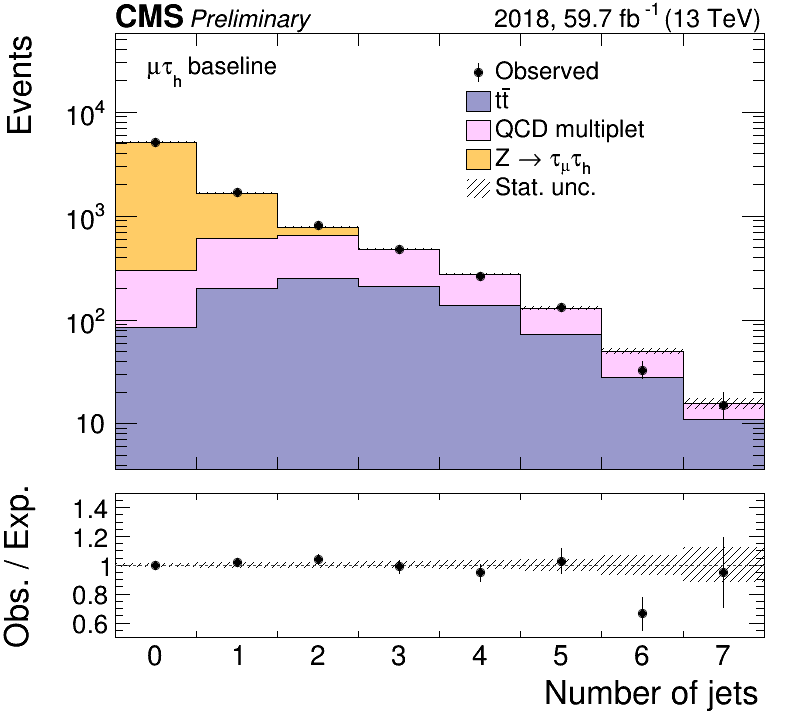
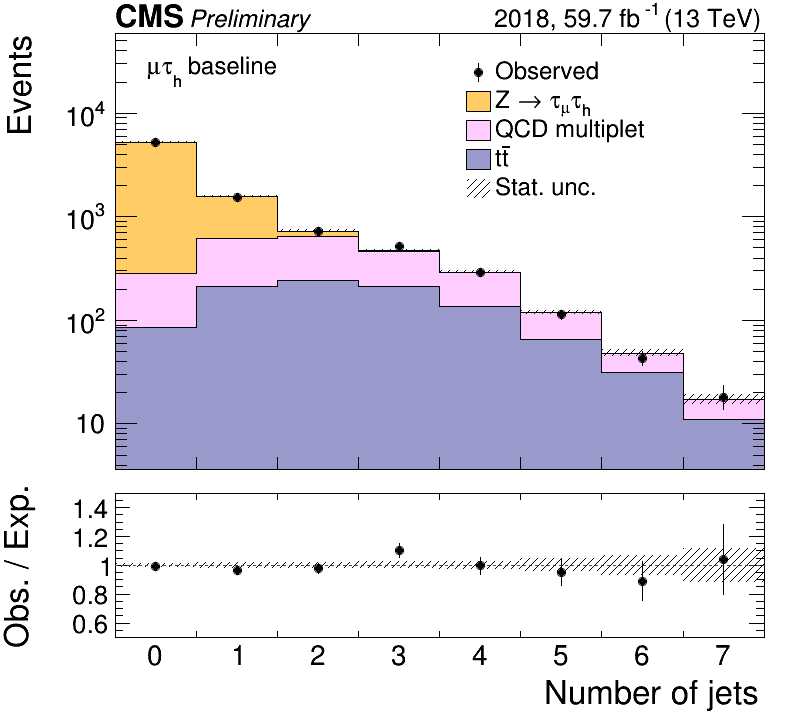
fix order of stacks

diff --git a/Plotter/test/plotStacks.py b/Plotter/test/plotStacks.py
@@ -107,19 +107,19 @@ def main():
   mvisbins = [0,30,40,50,55,60,65,70,75,80,85,90,95,100,110,120,140,200,300]
   plotset  = [ # make "pseudo"-MC with random generators, and "pseudo" data
     (('m_vis',"m_{vis} [GeV]",40,0,200), [
-      ('TT', "t#bar{t}",                1.0, gRandom.Gaus, (120,70)),
-      ('QCD', "QCD multiplet",          1.2, gRandom.Gaus, ( 80,60)),
       ('ZTT', "Z -> #tau_{mu}#tau_{h}", 1.0, gRandom.Gaus, ( 72, 9)),
+      ('QCD', "QCD multiplet",          1.2, gRandom.Gaus, ( 80,60)),
+      ('TT', "t#bar{t}",                1.0, gRandom.Gaus, (120,70)),
      ]),
     (('m_vis_var',"m_{vis} [GeV]",mvisbins), [ # variable binning
-       ('TT', "t#bar{t}",                1.0, gRandom.Gaus, (120,70)),
-       ('QCD', "QCD multiplet",          1.2, gRandom.Gaus, ( 80,60)),
        ('ZTT', "Z -> #tau_{mu}#tau_{h}", 1.0, gRandom.Gaus, ( 72, 9)),
+       ('QCD', "QCD multiplet",          1.2, gRandom.Gaus, ( 80,60)),
+       ('TT', "t#bar{t}",                1.0, gRandom.Gaus, (120,70)),
      ]),
     (('njets',"Number of jets",8,0,8), [
-      ('TT', "t#bar{t}",                0.2, gRandom.Poisson, (2.5,)),
-      ('QCD', "QCD multiplet",          0.3, gRandom.Poisson, (2.0,)),
       ('ZTT', "Z -> #tau_{mu}#tau_{h}", 1.2, gRandom.Poisson, (0.2,)),
+      ('QCD', "QCD multiplet",          0.3, gRandom.Poisson, (2.0,)),
+      ('TT', "t#bar{t}",                0.2, gRandom.Poisson, (2.5,)),
      ]),
     #(Variable('m_vis',"m_{vis} [GeV]",40,0,200), [
     #  ('TT', "t#bar{t}",                1.0, gRandom.Gaus, (120,70)),

diff --git a/Plotter/python/plot/Stack.py b/Plotter/python/plot/Stack.py
@@ -134,7 +134,7 @@ class Stack(Plot):
     stack = THStack(makehistname('stack',self.name),"") # stack (expected)
     self.stack = stack
     self.frame = stack
-    for hist in self.exphists:
+    for hist in reversed(self.exphists): # stacked bottom to top 
       stack.Add(hist)
     stack.Draw('HIST')
     if drawsignal: # signal

diff --git a/Plotter/README.md b/Plotter/README.md
@@ -25,7 +25,8 @@ plots.close
 ```
 
 <p align="center">
-  <img src="../docs/testHists_ratio_logy.png" alt="Gaussians with Plot class" width="420"/>
+  <img src="../docs/testHists.png" alt="Gaussians with Plot class" width="420"/>
+  <img src="../docs/testHists_ratio_logy.png" alt="Gaussians with Plot class and ratio plot" width="420"/>
 </p>
 
 If you want to make a data-MC comparison between a data histogram `datahist` and
